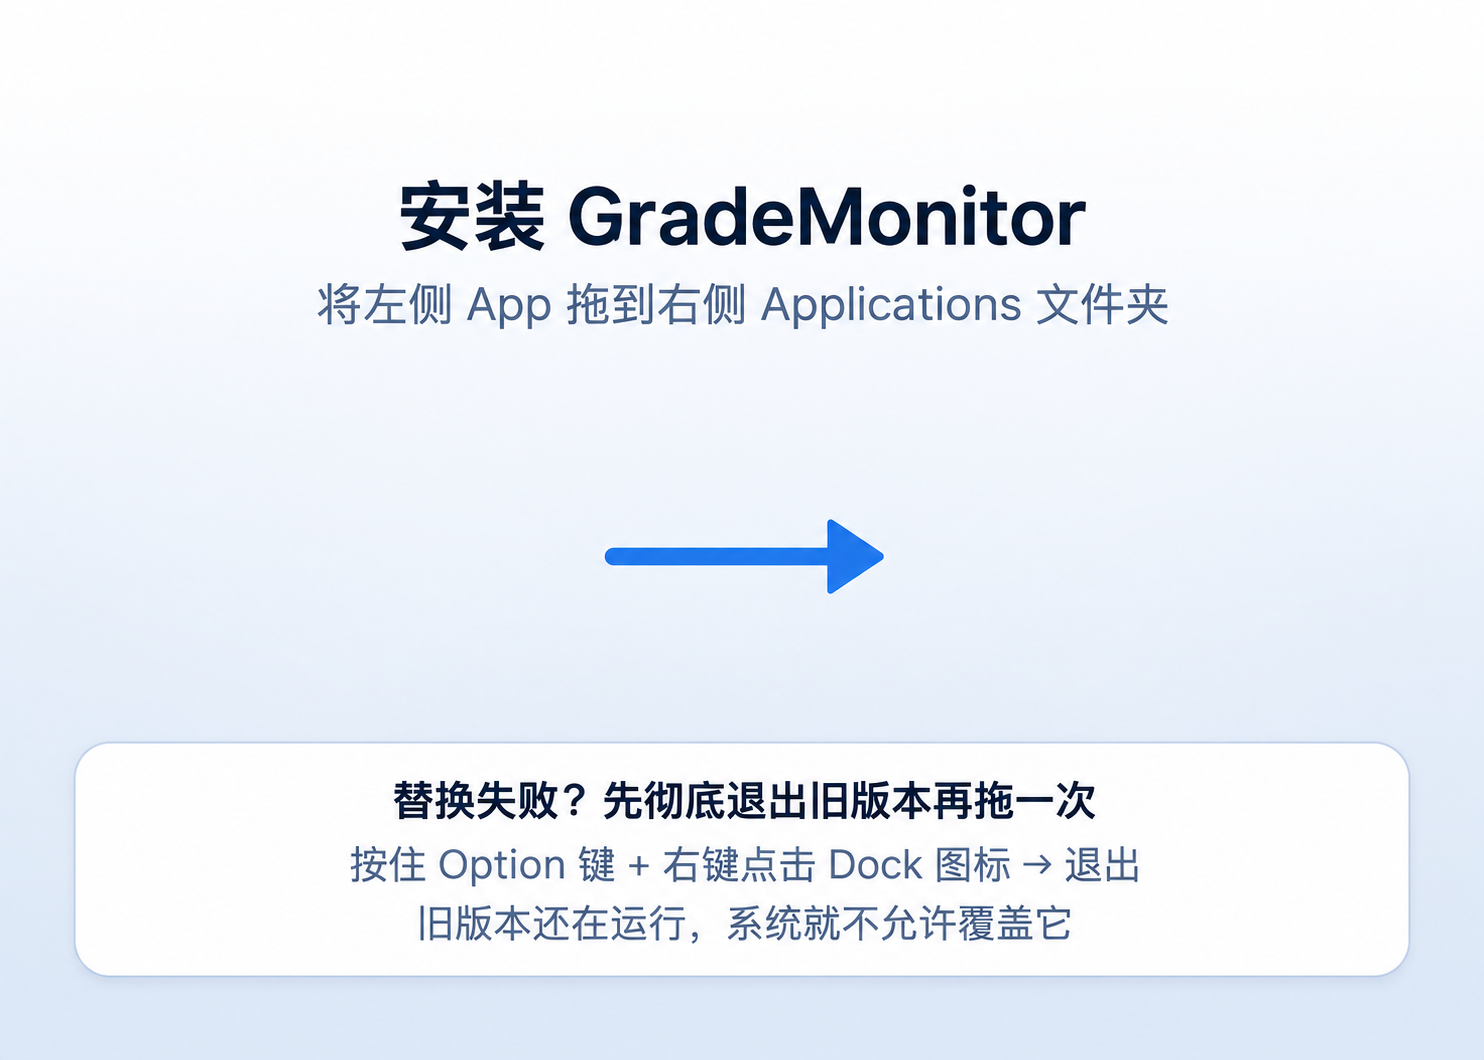
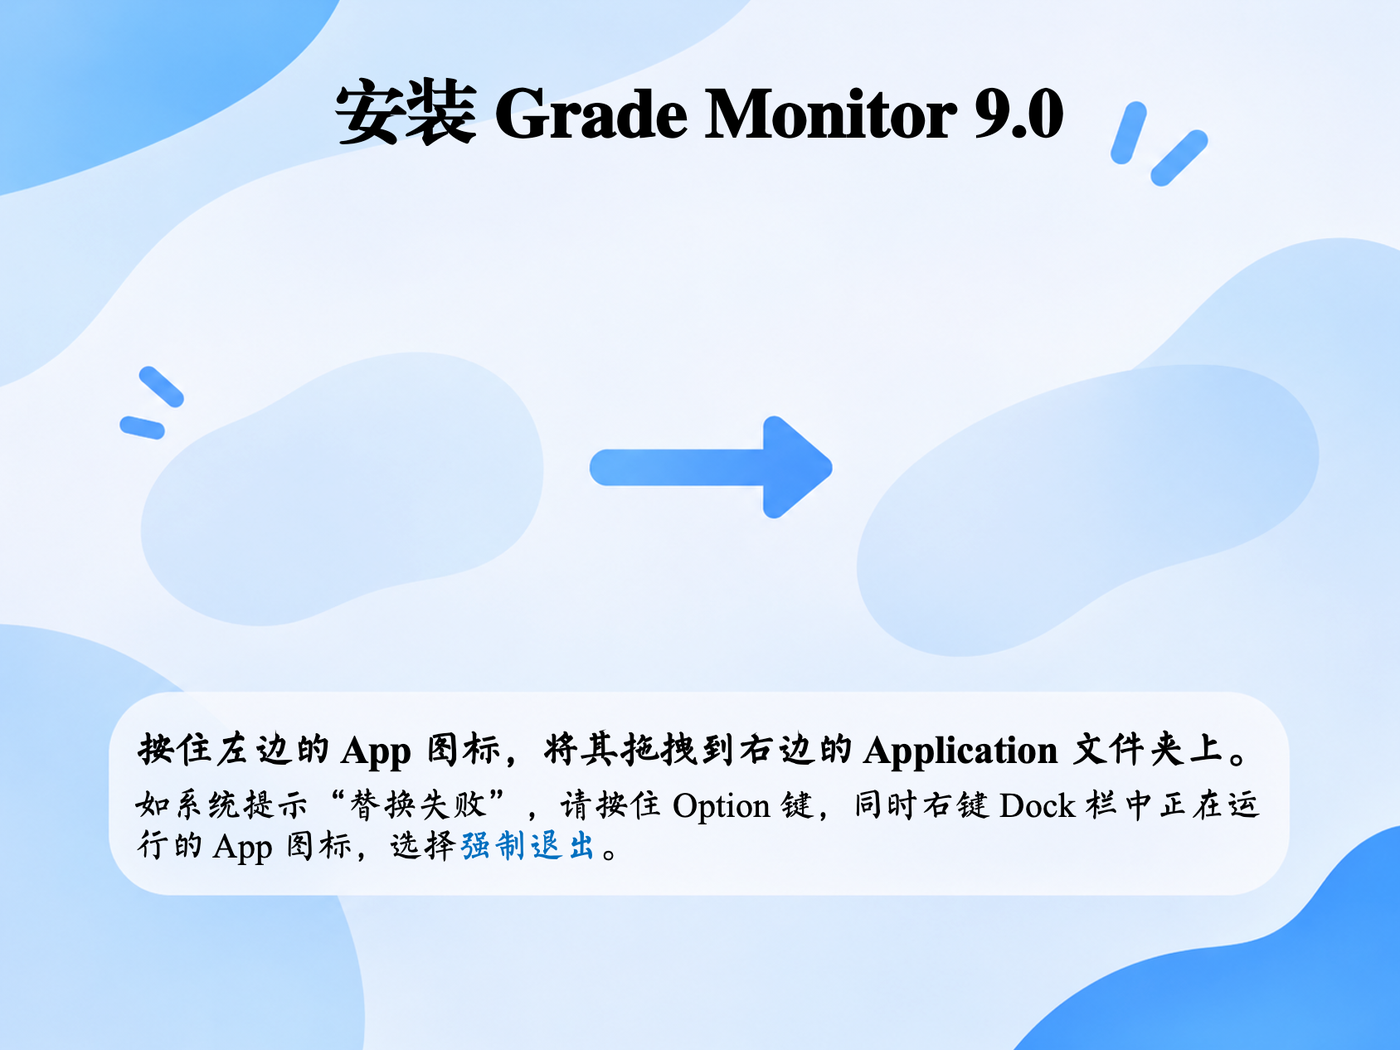
build(dmg): 换用新版安装背景图并修正图标与卷图标位置
背景设计稿换成 1400x1050（4:3）版本，窗口内容区同步改为 700x525：

- make_dmg_background.py: W,H 700x500 -> 700x525，1x/2x 输出
  700x525 / 1400x1050（@2x 与设计稿同尺寸，不再重采样）
- build_dmg.sh: WIN_H 500 -> 525；图标位置按新图箭头中心
  (0.508W, 0.444H) 从 y=262 调到 y=233，两个图标落在箭头左右外侧

顺带修一个旧 bug：.VolumeIcon.icns 原本在 osascript 驱动 Finder 布局
之前写入，Finder 打开/关闭卷时会重排根目录，把自定义图标位连同
.VolumeIcon.icns 一起清掉，所以此前每个 DMG 的卷图标实际都是丢失的。
现移到 .DS_Store 落盘校验之后、detach 之前，并加写入结果校验。

diff --git a/scripts/make_dmg_background.py b/scripts/make_dmg_background.py
@@ -1,14 +1,14 @@
 #!/usr/bin/env python3
 """生成 DMG 安装窗口的背景图。
 
-设计稿是 `scripts/dmg_background.png`（1484x1060，比例 1.4）。
+设计稿是 `scripts/dmg_background.png`（1400x1050，比例 4:3）。
 本脚本只负责把它缩放成 Finder 窗口内容区的尺寸，输出 1x 与 @2x 两档：
 
-    1x  -> 700x500   （= WIN_W x WIN_H，见 build_dmg.sh）
-    2x  -> 1400x1000 （Retina）
+    1x  -> 700x525   （= WIN_W x WIN_H，见 build_dmg.sh）
+    2x  -> 1400x1050 （Retina，与设计稿同尺寸，不会重采样）
 
 窗口尺寸必须与设计稿同比例，否则 Finder 会把背景拉伸变形。
-1484:1060 == 700:500 == 1.4，所以取 700x500。
+1400:1050 == 700:525 == 4:3，所以取 700x525。
 
 用法：
     python3 scripts/make_dmg_background.py <输出目录>
@@ -20,7 +20,7 @@ import sys
 from PIL import Image
 
 # 画布尺寸（= Finder 窗口的**内容区**尺寸，必须与 build_dmg.sh 的 WIN_W/WIN_H 一致）
-W, H = 700, 500
+W, H = 700, 525
 
 SCRIPT_DIR = os.path.dirname(os.path.abspath(__file__))
 SOURCE = os.path.join(SCRIPT_DIR, "dmg_background.png")
